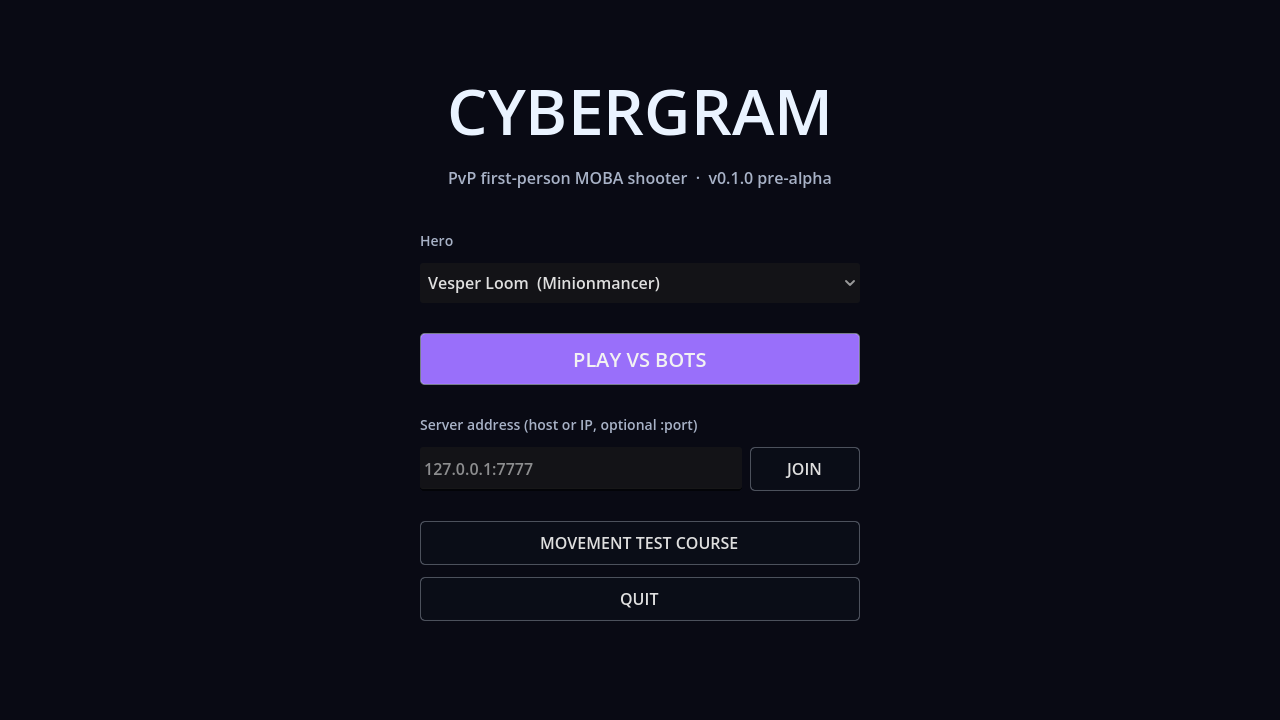
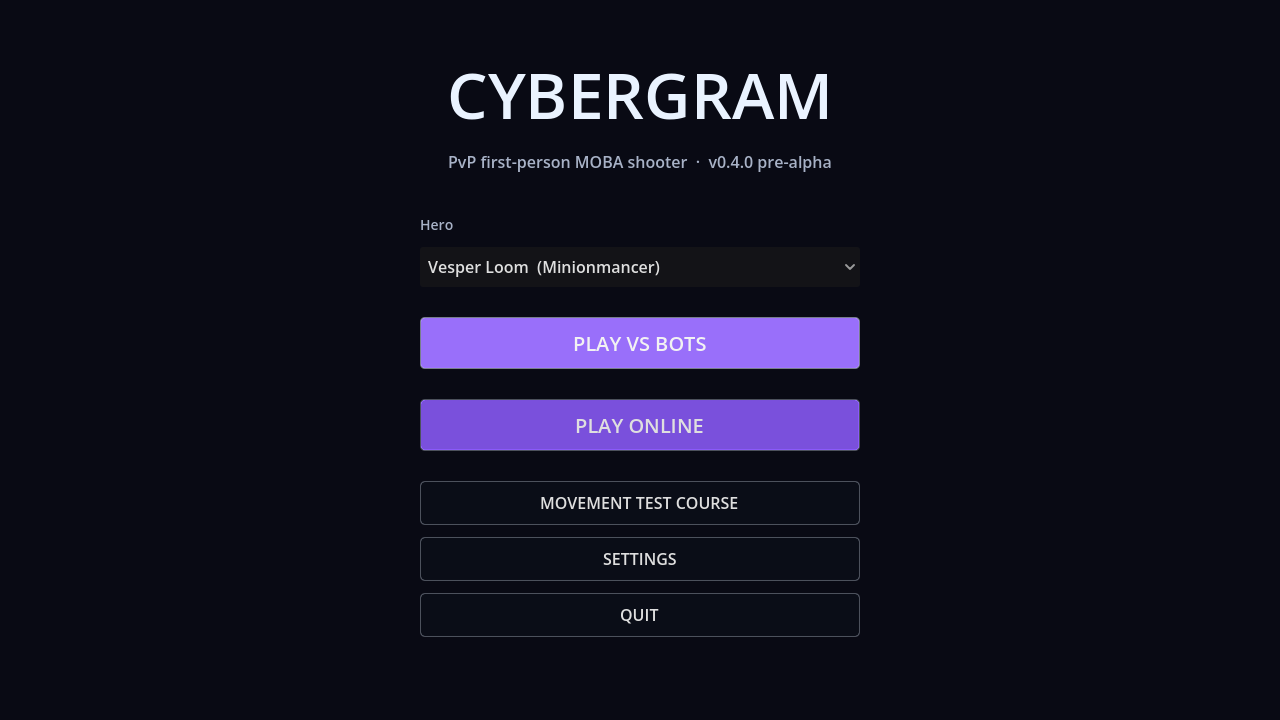
feat: PLAY ONLINE joins the official server (cyber.djboeck.at)
There is no address field any more. PLAY ONLINE opens the lobby of the
server in AppConfig.online_server (cyber.djboeck.at:7777), which is data
and can change without code. --open-lobby / --connect host:port remain
for testing other servers.

ENetTransport resolves host names through DNS before connecting. A
failed lookup reports 'cannot find server ... (DNS lookup failed)'.

Docs: SERVER.md 'Connecting' covers the DNS A record. README and v0.4.0
notes updated. Evidence: main_menu.png.

Story: owner request (official server address).

Claude-Session: https://claude.ai/code/session_01EBZx3Dxb731aDMrCTE9Ggu

diff --git a/docs/SERVER.md b/docs/SERVER.md
@@ -10,7 +10,7 @@ players connect from the main menu (**Join**) or with `--connect`.
 
 ### How a session works (lobby → match → lobby)
 
-1. **Lobby.** Players press **JOIN** in the main menu. The server puts them on
+1. **Lobby.** Players press **PLAY ONLINE** in the main menu. The server puts them on
    Concord / Syndicate by join order (one each side, then the next pair).
    Everyone picks a hero and presses **READY**.
 2. **Countdown.** When every player in the lobby is ready, a 5 s countdown
@@ -25,8 +25,7 @@ with fewer humans. A player who leaves is replaced by a bot. The server log
 narrates all of it (`[lobby] ...`, `[bots] ...`, `[server] player joined ...`).
 Use `--no-lobby` for the old behaviour (match starts at once, players drop in).
 
-Shortcut for players: `Cybergram.exe -- --open-lobby myserver.example.com:7777`
-opens the game straight in that server's lobby.
+Players reach it with **PLAY ONLINE** (see *Connecting*).
 
 ## Requirements
 
@@ -73,16 +72,18 @@ folder (with `game/` filled) to the NAS, and create a *Project* from its
 
 ## Connecting
 
-Start the game, enter the server address in the main menu (for example
-`203.0.113.5` or `myserver.example.com:7777`), pick a hero and press
-**JOIN**. From a terminal:
+Players just press **PLAY ONLINE** in the main menu. The game knows the
+official server, **`cyber.djboeck.at:7777`**, which is set in
+`assets/data/app/app_config.tres` (`online_server`).
 
-```bash
-./Cybergram.x86_64 -- --connect 203.0.113.5:7777 --hero brannoc
-```
+For that to work:
+1. **DNS:** an `A` record `cyber.djboeck.at` → the server's public IPv4.
+2. **Server:** runs v0.4.0 on UDP 7777 (see above), with the port open in the
+   firewall / forwarded on the router.
 
-If the server does not answer within 8 s, the game goes back to the menu and
-names the likely cause.
+For testing another server without a rebuild:
+`Cybergram.exe -- --open-lobby 203.0.113.5:7777` (or `--connect host:port`
+to skip the lobby).
 
 ## Server options
 

diff --git a/production/releases/v0.4.0.md b/production/releases/v0.4.0.md
@@ -14,7 +14,8 @@ SmartScreen warning because the build is not code-signed: choose
 ## New
 
 - **Matchmaking lobby (LoL-style flow on your server).**
-  1. Press **JOIN** with the server address.
+  1. Press **PLAY ONLINE**. The game connects to the official server
+     `cyber.djboeck.at` by itself.
   2. See both teams, pick your hero and press **READY**.
   3. When everyone is ready, a 5 s countdown starts the 3v3 match. Bots fill
      every slot players didn't take.
@@ -22,8 +23,8 @@ SmartScreen warning because the build is not code-signed: choose
 - **Lag compensation.** The server now judges your shots against where
   enemies were on *your* screen (up to 200 ms back), so hits at internet ping
   register fairly.
-- **Shortcut:** `-- --open-lobby host:port` starts the game straight in a
-  server's lobby.
+- **Testing other servers:** `-- --open-lobby host:port` starts the game in
+  another server's lobby.
 
 **Server owners:** update the server to v0.4.0. Older clients are told
 "version mismatch". Hosting guide:

diff --git a/README.md b/README.md
@@ -84,8 +84,8 @@ Builds for every commit are also attached to each **Build** run under the
 *Actions* tab.
 
 The game opens on the **main menu**: pick a hero, then **Play vs Bots** (a
-**3v3 match on the slice map**, bots fill the other slots) or **Join** a
-server by address. To host one, see [`docs/SERVER.md`](docs/SERVER.md). Destroy the enemy Mana Uplink
+**3v3 match on the slice map**, bots fill the other slots) or **Play Online**
+on the official server (`cyber.djboeck.at`). To host one, see [`docs/SERVER.md`](docs/SERVER.md). Destroy the enemy Mana Uplink
 to win. It only takes damage once your team holds the enemy's Inner
 hardpoint.
 
